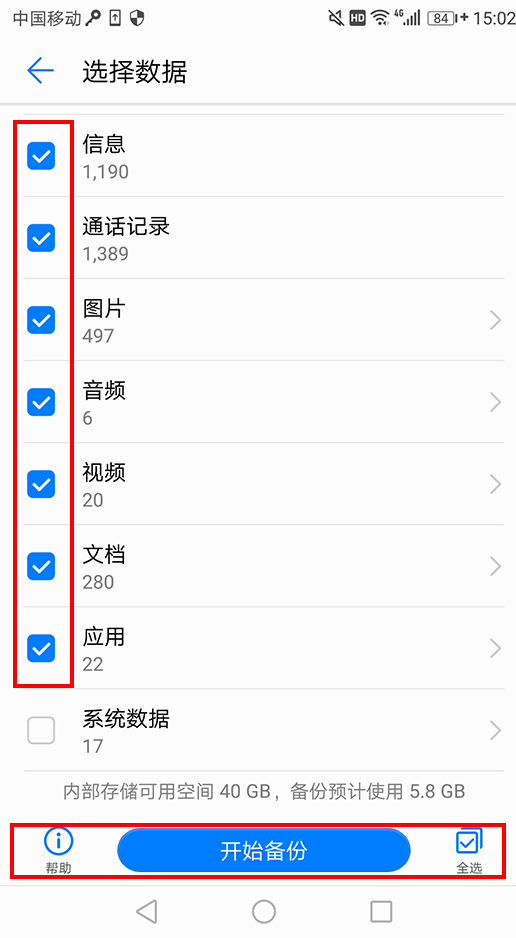
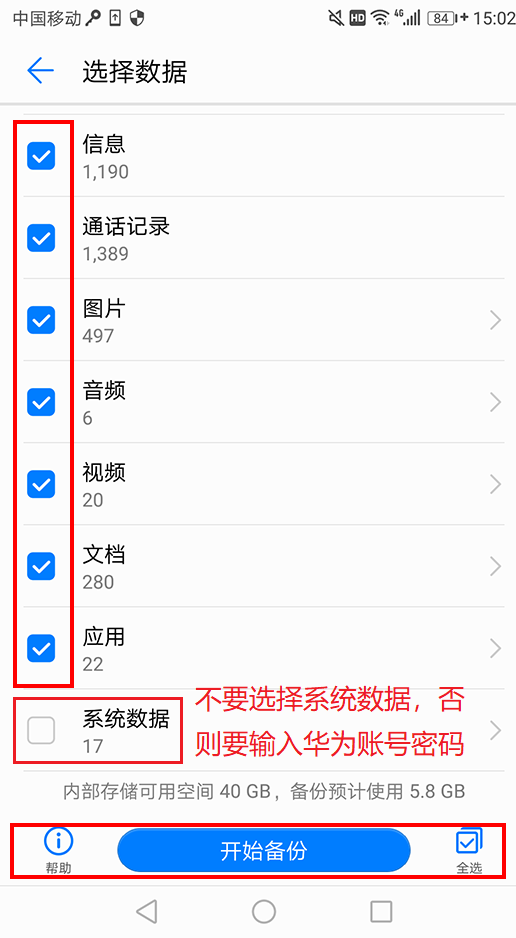
调整步骤提示文案，修改部分提示图，增加iPhone手机信任提示

Changed region(s): [[0.0, 0.7111, 0.8992, 0.8038], [0.031, 0.8038, 0.3411, 0.8348]]

diff --git a/src/view/dashboard/Init/Init.tsx b/src/view/dashboard/Init/Init.tsx
@@ -21,6 +21,7 @@ import ApkInstallModal from '@src/components/TipsModal/ApkInstallModal/ApkInstal
 import DegradeModal from '@src/components/TipsModal/DegradeModal/DegradeModal';
 import PromptModal from '@src/components/TipsModal/PromptModal/PromptModal';
 import OppoWifiConfirmModal from '@src/components/TipsModal/OppoWifiConfirmModal/OppoWifiConfirmModal';
+import AppleModal from '@src/components/TipsModal/AppleModal/AppleModal';
 import UsbDebugWithCloseModal from '@src/components/TipsModal/UsbDebugWithCloseModal/UsbDebugWithCloseModal';
 import SamsungSmartSwitchModal from '@src/components/TipsModal/SamsungSmartSwitchModal/SamsungSmartSwitchModal';
 import HisuiteFetchConfirmModal from '@src/components/TipsModal/HisuiteFetchConfirmModal/HisuiteFetchConfirmModal';
@@ -28,6 +29,7 @@ import IOSEncryptionModal from '@src/components/TipsModal/IOSEncryptionModal/IOS
 import { max } from '@src/config/ui.yaml';
 import { ApkType } from '@src/schema/ApkType';
 import './Init.less';
+import SystemType from '@src/schema/SystemType';
 
 interface IProp extends StoreComponent {
     init: IStoreState;
@@ -39,6 +41,8 @@ interface IState {
     detailModalVisible: boolean;
     //显示打开USB调试模式
     usbDebugModalVisible: boolean;
+    //iPhone信任提示弹框
+    appleModalVisible: boolean;
 }
 /**
  * 初始化连接设备
@@ -79,7 +83,8 @@ class Init extends Component<IProp, IState> {
         this.state = {
             caseModalVisible: false,
             detailModalVisible: false,
-            usbDebugModalVisible: false
+            usbDebugModalVisible: false,
+            appleModalVisible: false
         };
         this.piBrand = '';
         this.piModel = '';
@@ -224,10 +229,16 @@ class Init extends Component<IProp, IState> {
     /**
      * 打开USB调试模式提示框
      */
-    usbDebugHandle = (id: string) => {
-        this.setState({
-            usbDebugModalVisible: true
-        });
+    usbDebugHandle = (systemType: SystemType) => {
+        if (systemType === SystemType.IOS) {
+            this.setState({
+                appleModalVisible: true
+            });
+        } else {
+            this.setState({
+                usbDebugModalVisible: true
+            });
+        }
     }
     /**
      * 操作完成
@@ -615,6 +626,7 @@ class Init extends Component<IProp, IState> {
                 visible={init.fetchResponseCode === FetchResposeUI.OPPO_FETCH_CONFIRM}
                 okHandle={() => this.oppoWifiConfirmOkHandle()}
                 cancelHandle={() => this.oppoWifiConfirmCancelHandle()} />
+            <AppleModal visible={this.state.appleModalVisible} okHandle={() => this.setState({ appleModalVisible: false })} />
             {/* 打开USB调试模式提示 */}
             <UsbDebugWithCloseModal
                 visible={this.isShowUsbDebugModal()}

diff --git a/src/components/PhoneInfo/PhoneInfo.tsx b/src/components/PhoneInfo/PhoneInfo.tsx
@@ -29,8 +29,9 @@ interface IProp extends stPhoneInfoPara {
     status: PhoneInfoStatus;
     /**
      * 打开USB调试链接回调
+     * @param arg0 系统类型
      */
-    usbDebugHandle?: (arg0: string) => void;
+    usbDebugHandle?: (arg0: SystemType) => void;
     /**
      * 采集回调方法
      */
@@ -128,6 +129,7 @@ class PhoneInfo extends Component<IProp, IState>{
      * 未连接状态vDOM
      */
     getDomByNotConnect = (): JSX.Element => {
+        const { piSystemType } = this.props;
         this.resetClock(this.props.index);
         return <div className="connected">
             <div className="img">
@@ -143,10 +145,7 @@ class PhoneInfo extends Component<IProp, IState>{
                     </div>
                 </div>
                 <div className="case-data">
-                    <span>请打开USB调试</span>
-                    <a onClick={() => this.props.usbDebugHandle!(this.props.piSerialNumber! + this.props.piLocationID)}>
-                        如何打开？
-                    </a>
+                    {this.renderDisconnectedInfo(piSystemType!)}
                 </div>
                 <div className="btn">
                     <Button type="primary" icon="interaction" disabled={true} size="default">取证</Button>
@@ -305,6 +304,25 @@ class PhoneInfo extends Component<IProp, IState>{
             </List>
         } else {
             return null;
+        }
+    }
+    /**
+     * 渲染正在连接的提示区
+     * @param brandName 品牌名称
+     */
+    renderDisconnectedInfo(systemType: SystemType) {
+        if (systemType === SystemType.IOS) {
+            return <>
+                <span>请信任此电脑</span>
+                <a onClick={() => this.props.usbDebugHandle!(SystemType.IOS)}>
+                    如何操作？</a>
+            </>;
+        } else {
+            return <>
+                <span>请打开USB调试</span>
+                <a onClick={() => this.props.usbDebugHandle!(SystemType.ANDROID)}>
+                    如何打开？</a>
+            </>;
         }
     }
     /**

diff --git a/src/components/TipsModal/AppleModal/AppleModal.tsx b/src/components/TipsModal/AppleModal/AppleModal.tsx
@@ -1,4 +1,5 @@
 import React, { PropsWithChildren, ReactElement } from 'react';
+import Button from 'antd/lib/button';
 import Modal from 'antd/lib/modal';
 import Divider from 'antd/lib/divider';
 import debugImg from './images/debug.jpg';
@@ -6,6 +7,7 @@ import './AppleModal.less';
 
 interface IProp {
     visible: boolean;
+    okHandle?: () => void;
 }
 
 /**
@@ -15,8 +17,18 @@ interface IProp {
 function AppleModal(props: PropsWithChildren<IProp>): ReactElement {
 
     return <Modal visible={props.visible}
+        footer={[
+            <Button type="primary"
+                icon="check-circle"
+                onClick={() => {
+                    if (props) {
+                        props.okHandle!();
+                    }
+                }}>
+                确定
+            </Button>
+        ]}
         centered={true}
-        footer={null}
         maskClosable={false}
         closable={false}
         width={500}>

diff --git a/src/components/StepModal/steps/meizu/backup.tsx b/src/components/StepModal/steps/meizu/backup.tsx
@@ -4,7 +4,7 @@ import fetch2 from '../images/fetch/meizu/fetch2.jpg';
 import fetch3 from '../images/fetch/meizu/fetch3.jpg';
 import fetch4 from '../images/fetch/meizu/fetch4.jpg';
 import fetch5 from '../images/fetch/meizu/fetch5.jpg';
-
+import fetch6 from '../images/fetch/meizu/fetch6.jpg';
 
 /**
  * 魅族备份引导步骤图
@@ -24,8 +24,12 @@ const steps = [{
     content: <img src={fetch4} height="580" />
 }, {
     title: '勾选备份文件',
-    description: '点击开始备份，等待完成即可',
+    description: '等待备份完成',
     content: <img src={fetch5} height="580" />
+}, {
+    title: '点击完成',
+    description: '数据备份成功后，点击完成',
+    content: <img src={fetch6} height="580" />
 }];
 
 export default steps;

diff --git a/src/components/StepModal/steps/mi/backup.tsx b/src/components/StepModal/steps/mi/backup.tsx
@@ -6,7 +6,7 @@ import fetch4 from '../images/fetch/xiaomi/fetch4.jpg';
 import fetch5 from '../images/fetch/xiaomi/fetch5.jpg';
 import fetch6 from '../images/fetch/xiaomi/fetch6.jpg';
 import fetch7 from '../images/fetch/xiaomi/fetch7.jpg';
-
+import fetch8 from '../images/fetch/xiaomi/fetch8.jpg';
 
 /**
  * 小米备份步骤图
@@ -31,8 +31,12 @@ const steps = [{
     description: '然后点击开始备份',
     content: <img src={fetch6} height="580" />
 }, {
-    title: '备份完成即可',
+    title: '等待备份完成',
     content: <img src={fetch7} height="580" />
+}, {
+    title: '点击完成按钮',
+    description: '数据备份成功后，请点击完成按钮',
+    content: <img src={fetch8} height="580" />
 }];
 
 export default steps;

diff --git a/src/components/StepModal/steps/huawei/backup.tsx b/src/components/StepModal/steps/huawei/backup.tsx
@@ -30,7 +30,7 @@ const steps = [{
     content: <img src={fetch6} height="580" />
 }, {
     title: '勾选备份数据',
-    description: '一定不要勾选系统数据，否则需要输入华为账号和密码',
+    description: '不要勾选系统数据，等待手机备份成功后请点击完成',
     content: <img src={fetch7} height="580" />
 }];
 

diff --git a/src/components/StepModal/steps/vivo/backup.tsx b/src/components/StepModal/steps/vivo/backup.tsx
@@ -20,6 +20,7 @@ const steps = [{
     content: <img src={fetch3} height="580" />
 }, {
     title: '完成即可',
+    description:'所有数据备份成功，点击完成按钮',
     content: <img src={fetch4} height="580" />
 }];
 

diff --git a/src/components/StepModal/steps/oppo/backup.tsx b/src/components/StepModal/steps/oppo/backup.tsx
@@ -21,6 +21,7 @@ const steps = [{
     content: <img src={fetch3} height="580" />
 }, {
     title: '完成',
+    description:'数据备份成功后，点击完成按钮',
     content: <img src={fetch4} height="580" />
 }];
 

diff --git a/src/components/TipsModal/AppleModal/AppleModal.less b/src/components/TipsModal/AppleModal/AppleModal.less
@@ -11,7 +11,8 @@
         align-items    : center;
 
         h3 {
-            color: #03a9f4;
+            color      : @base-color;
+            font-weight: bolder;
         }
 
         img {
